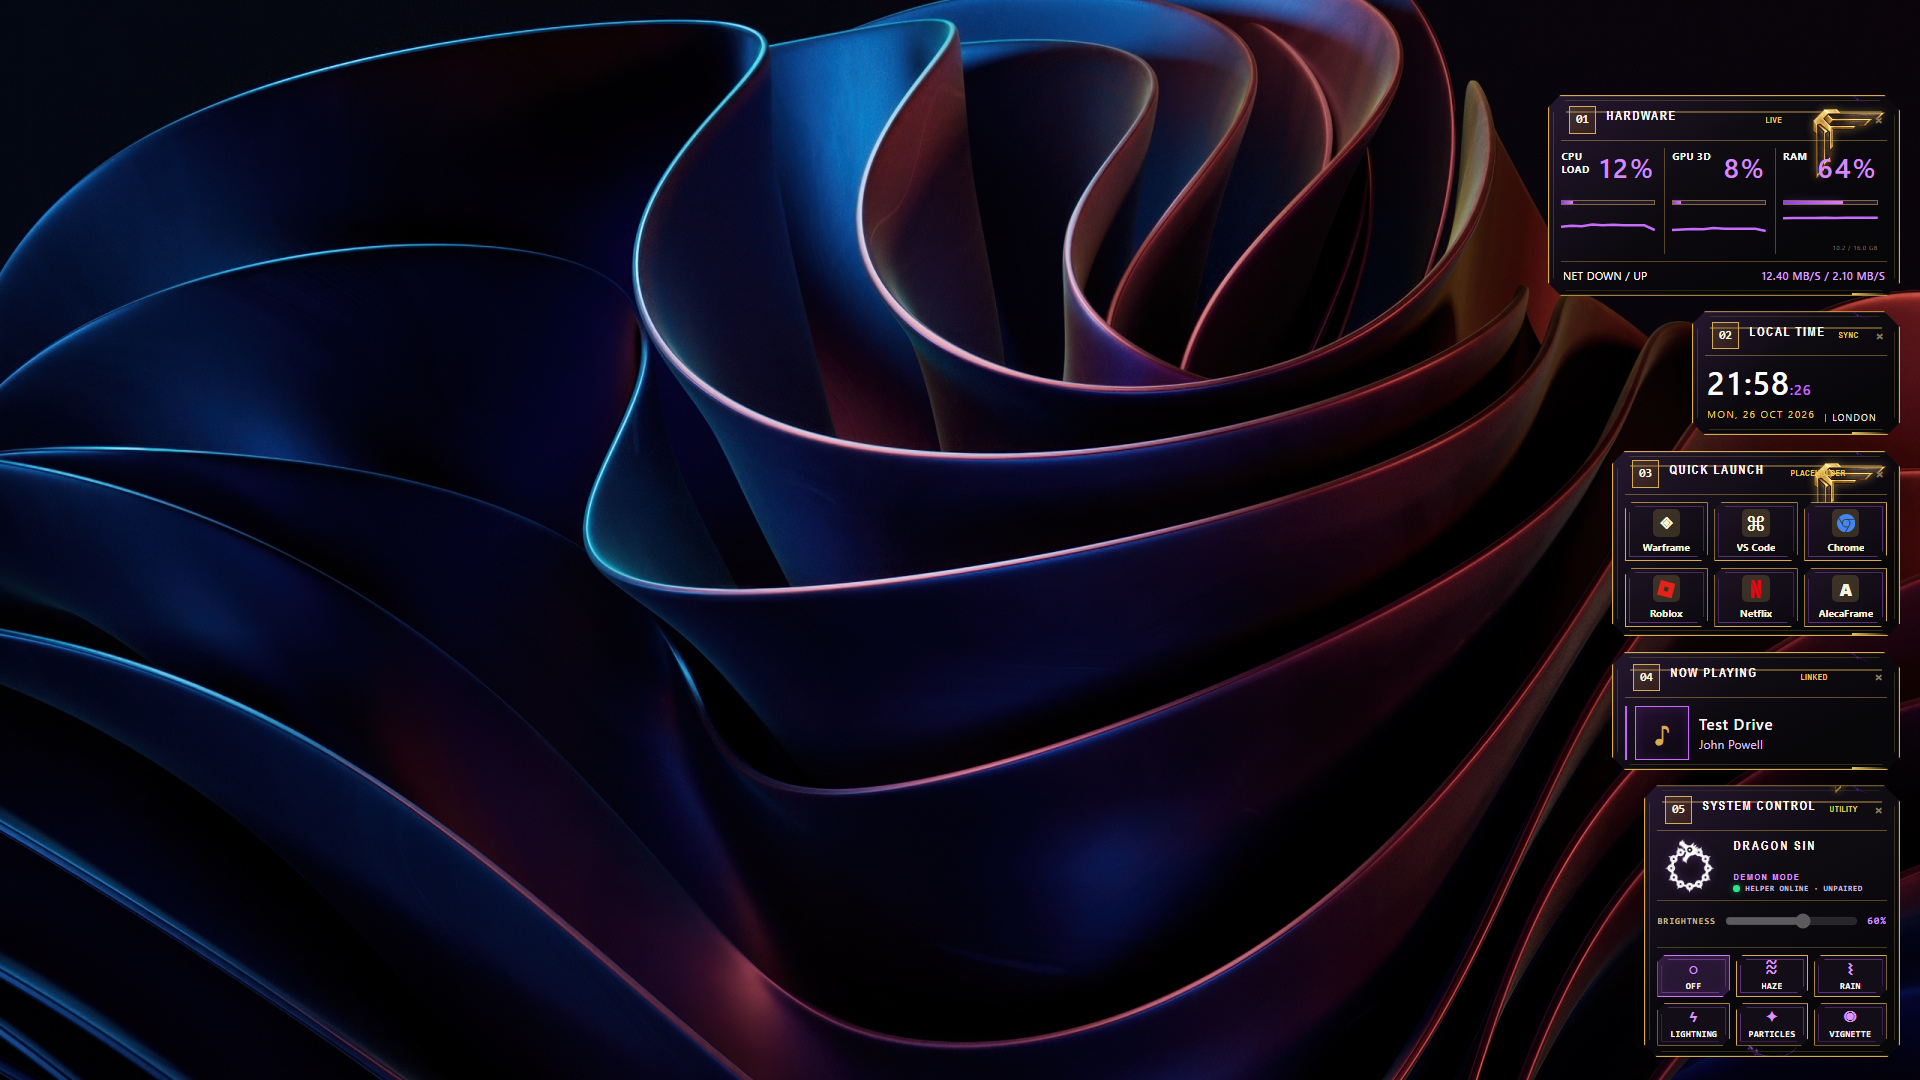
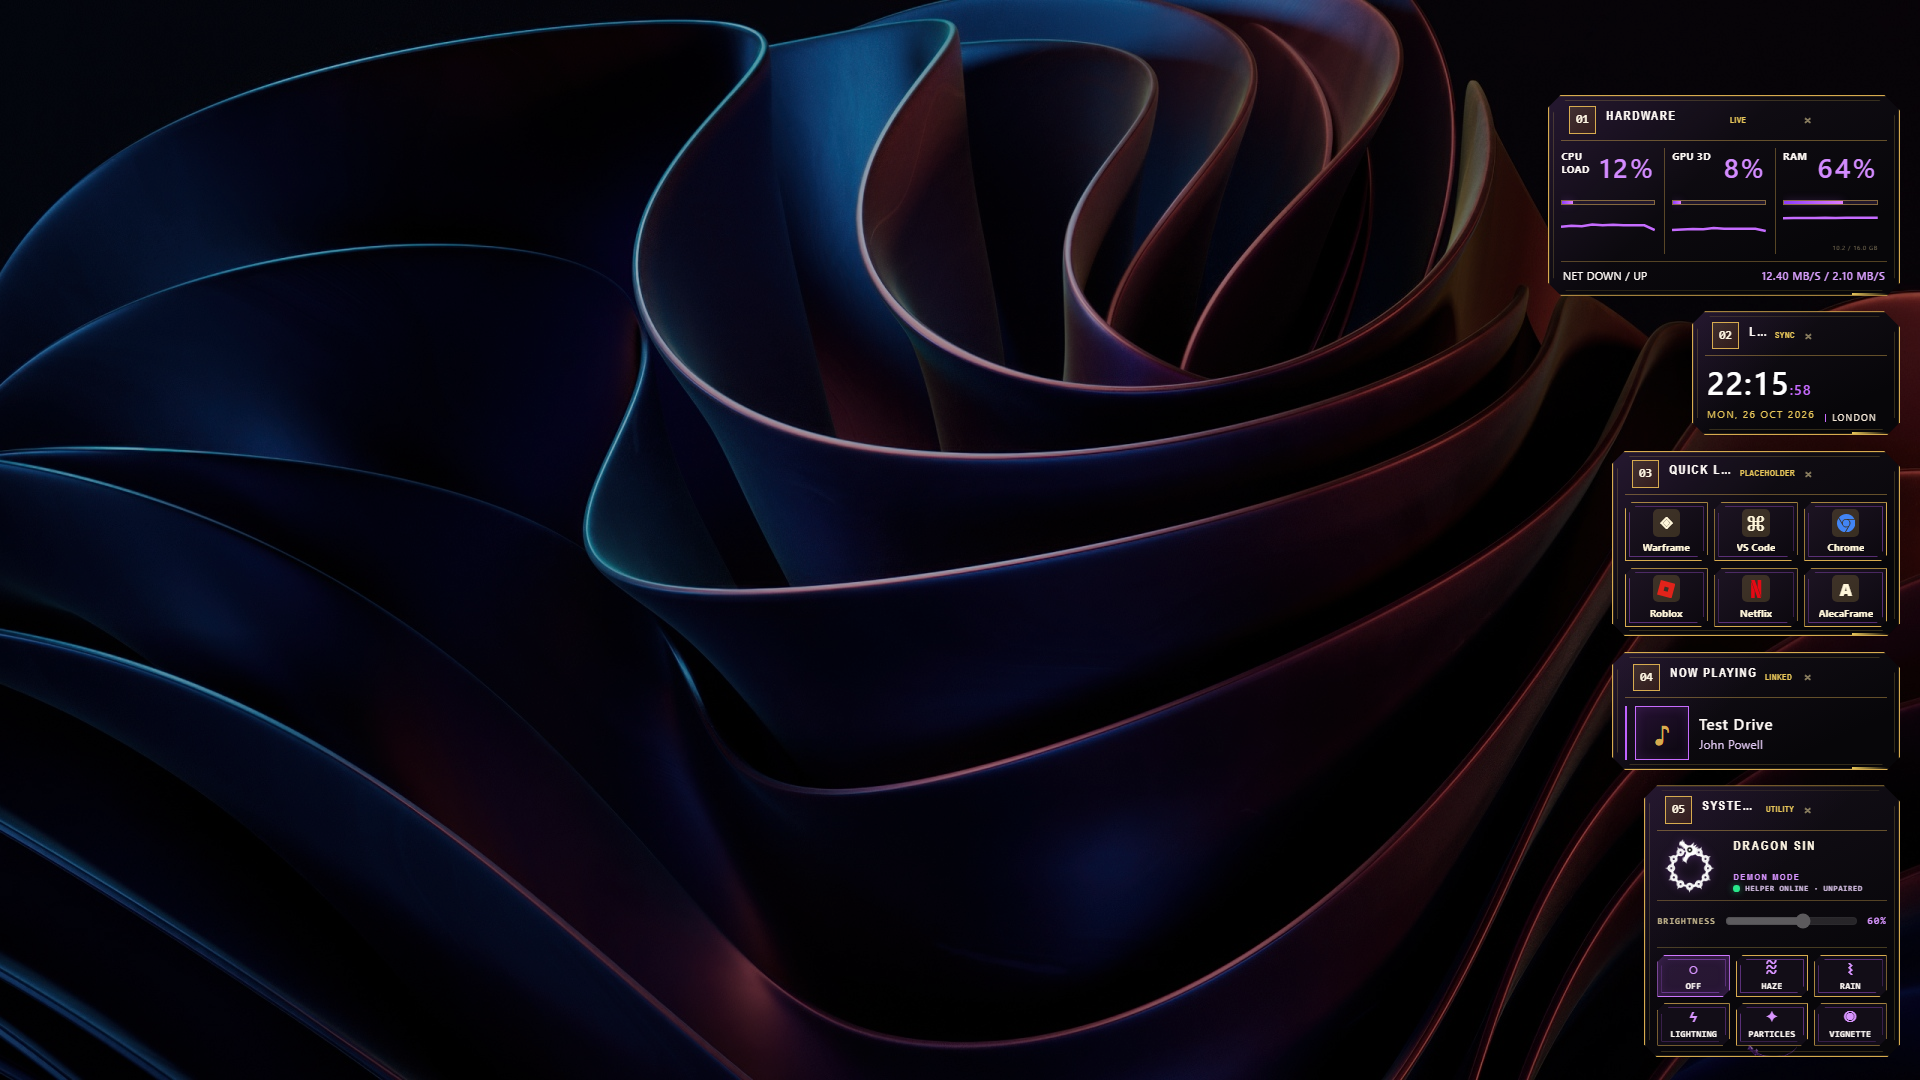
feat: enhance Demon Mode theme with widget frame adjustments and new assets

diff --git a/src/App.css b/src/App.css
@@ -3594,6 +3594,14 @@
    utility label and close control remain unobstructed. */
 .wallpaper-experience.theme-demon-mode .widget-5 .theme-widget-frame-corner{top:auto!important;right:.12rem!important;bottom:.12rem!important;width:3.25rem!important;height:3.25rem!important;opacity:.94!important}
 
+/* Demon clasp integration: the supplied art is an upper-left elbow.  A stable
+   wrapper owns placement/masking while its image owns orientation, leaving the
+   prompt entrance transform free to animate the wrapper. */
+.wallpaper-experience.theme-demon-mode .theme-widget-frame{z-index:3;overflow:hidden!important}.wallpaper-experience.theme-demon-mode .theme-widget-frame-corner{top:0!important;right:0!important;bottom:auto!important;left:auto!important;display:block!important;width:4.1rem!important;height:4.1rem!important;overflow:hidden;opacity:1!important;background:#0d0a10;filter:drop-shadow(0 0 3px rgb(215 171 79 / 38%));isolation:isolate}.wallpaper-experience.theme-demon-mode .theme-widget-frame-corner>img{visibility:hidden}.wallpaper-experience.theme-demon-mode .theme-widget-frame-corner::after{position:absolute;inset:0;background:url('/assets/emblems/demon-corner-clasp-trimmed.png') center/100% 100% no-repeat;content:'';pointer-events:none;transform:scaleX(-1);transform-origin:center}.wallpaper-experience.theme-demon-mode .widget-5 .theme-widget-frame-corner{top:auto!important;right:0!important;bottom:0!important;left:auto!important;width:3.7rem!important;height:3.7rem!important}.wallpaper-experience.theme-demon-mode .widget-5 .theme-widget-frame-corner::after{transform:rotate(180deg)}.wallpaper-experience.theme-demon-mode .widget-2 .theme-widget-frame-corner,.wallpaper-experience.theme-demon-mode .widget-4 .theme-widget-frame-corner{display:none!important}.wallpaper-experience.theme-demon-mode .system-widget>header{z-index:4;padding-right:4.8rem!important}.wallpaper-experience.theme-demon-mode .system-widget header .widget-close{z-index:5}
+.wallpaper-experience.theme-demon-mode .widget-1>header::after,.wallpaper-experience.theme-demon-mode .widget-3>header::after{position:absolute;top:0;right:0;width:4.1rem;height:4.1rem;background:#0d0a10 url('/assets/emblems/demon-corner-clasp-trimmed.png') center/100% 100% no-repeat;content:'';pointer-events:none;transform:scaleX(-1);transform-origin:top right}.wallpaper-experience.theme-demon-mode .widget-1>header .widget-close,.wallpaper-experience.theme-demon-mode .widget-3>header .widget-close{position:relative;z-index:2}
+
+.wallpaper-experience.theme-demon-mode .system-widget>header{overflow:visible!important}
+
 /* Prompt-parity widget entrances.  The outer card is never transformed: saved
    placement, direct dragging, and widget scaling stay entirely stable. */
 .widget-entering>header,.widget-entering>:not(.theme-widget-frame):not(.sao-widget-frame):not(.sao-widget-surface):not(header){will-change:opacity,transform,filter,clip-path}

diff --git a/src/App.tsx b/src/App.tsx
@@ -394,7 +394,7 @@ function ThemeWidgetFrame({ theme }: { theme: ThemeId }) {
           ? { corner: './assets/emblems/night-fury-corner-fins-trimmed.png', accent: './assets/emblems/night-fury-bottom-tail-trimmed.png' }
           : null
   return <span className={`theme-widget-frame theme-widget-frame-${theme}`} aria-hidden="true">
-    {art && <><img className="theme-widget-frame-corner" src={art.corner} alt="" /><img className="theme-widget-frame-accent" src={art.accent} alt="" /></>}
+    {art && <><span className="theme-widget-frame-corner"><img src={art.corner} alt="" /></span><img className="theme-widget-frame-accent" src={art.accent} alt="" /></>}
   </span>
 }
 
